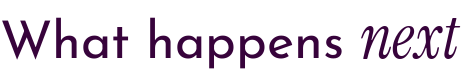
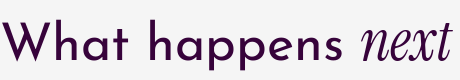
Email v4: white type on gradient, smaller cut-out Flicker, grey page + white cards

Changed region(s): [[0.0, 0.2051, 1.0, 0.8974]]

diff --git a/email/render_email.py b/email/render_email.py
@@ -1,0 +1,68 @@
+"""Renders the Cluma email images (brand fonts baked in, because Gmail ignores web fonts)."""
+import sys
+from PIL import Image, ImageDraw, ImageFont, ImageFilter
+S = sys.argv[1]
+WHITE = (255, 255, 255); DARK = (55, 3, 59); PAGE = (245, 245, 245)
+def jos(size, w='Regular'):
+    f = ImageFont.truetype(f'{S}/fonts/JosefinSans[wght].ttf', size); f.set_variation_by_name(w); return f
+def ser(size): return ImageFont.truetype(f'{S}/fonts/InstrumentSerif-Italic.ttf', size)
+
+def gradient(W, H):
+    # website: linear-gradient(135deg, #a460aabf 40%, #ffb4ba) on #f5f5f5
+    a = (184, 133, 189); b = (255, 180, 186)
+    g = Image.new('RGB', (W, H)); px = g.load()
+    for y in range(H):
+        for x in range(W):
+            t = (x / W * 0.55 + y / H * 0.45)
+            t = max(0.0, (t - 0.40) / 0.60)
+            px[x, y] = tuple(round(a[i] + (b[i] - a[i]) * t) for i in range(3))
+    return g
+
+def rounded(img, rad, bg=PAGE):
+    m = Image.new('L', img.size, 0); ImageDraw.Draw(m).rounded_rectangle([0, 0, img.width - 1, img.height - 1], radius=rad, fill=255)
+    return Image.composite(img, Image.new('RGB', img.size, bg), m)
+
+def hero(cut, eyebrow, line1, accent, sub, out, mon_h=380):
+    W, H = 1200, 560
+    img = gradient(W, H)
+    mon = Image.open(f'{S}/{cut}').convert('RGBA')
+    mon = mon.resize((round(mon.width * mon_h / mon.height), mon_h), Image.LANCZOS)
+    mx = W - mon.width - 40; my = H - mon.height - 48
+    sh = Image.new('L', (W, H), 0)
+    ImageDraw.Draw(sh).ellipse([mx + mon.width * 0.12, my + mon.height - 22, mx + mon.width * 0.92, my + mon.height + 22], fill=90)
+    sh = sh.filter(ImageFilter.GaussianBlur(14))
+    img = Image.composite(Image.new('RGB', (W, H), (120, 60, 110)), img, sh)
+    img.paste(mon, (mx, my), mon)
+    d = ImageDraw.Draw(img)
+    logo = Image.open(f'{S}/cluma-logo-white@2x.png').convert('RGBA')
+    lh = 48; logo = logo.resize((round(logo.width * lh / logo.height), lh), Image.LANCZOS)
+    img.paste(logo, (72, 64), logo)
+    f = jos(24, 'SemiBold'); x = 74
+    for ch in eyebrow:
+        d.text((x, 196), ch, font=f, fill=WHITE); x += f.getlength(ch) + 4
+    size = 76; base = 314
+    d.text((70, base), line1, font=jos(size), fill=WHITE, anchor='ls')
+    d.text((70 + jos(size).getlength(line1), base), accent, font=ser(size + 6), fill=WHITE, anchor='ls')
+    fs = jos(32)
+    for i, line in enumerate(sub):
+        d.text((74, 372 + i * 44), line, font=fs, fill=WHITE)
+    rounded(img, 32).save(f'{S}/{out}', quality=88, optimize=True, progressive=True)
+
+def heading(parts, out, size=52):
+    j = jos(size); sr = ser(size + 6)
+    w = int(sum((j if k == 'j' else sr).getlength(t) for t, k in parts)) + 8
+    img = Image.new('RGB', (w, 80), PAGE); d = ImageDraw.Draw(img); x = 0
+    for t, k in parts:
+        f = j if k == 'j' else sr
+        d.text((x, 60), t, font=f, fill=DARK, anchor='ls'); x += f.getlength(t)
+    img.save(f'{S}/{out}', optimize=True); return img.size
+
+def signature(out):
+    f = ser(58); w = int(f.getlength('Christoph Bogatzki')) + 8
+    img = Image.new('RGB', (w, 76), PAGE); ImageDraw.Draw(img).text((0, 58), 'Christoph Bogatzki', font=f, fill=DARK, anchor='ls')
+    img.save(f'{S}/{out}', optimize=True); return img.size
+
+if __name__ == '__main__':
+    hero('flicker-cut.png', 'PAYMENT RECEIVED', 'Welcome to ', 'Cluma.', ['Your subscription is live.', 'Your invoice is attached as a PDF.'], 'hero-welcome-en.jpg')
+    print(heading([('What happens ', 'j'), ('next', 's')], 'h-next-en.png'))
+    print(signature('signature.png'))
